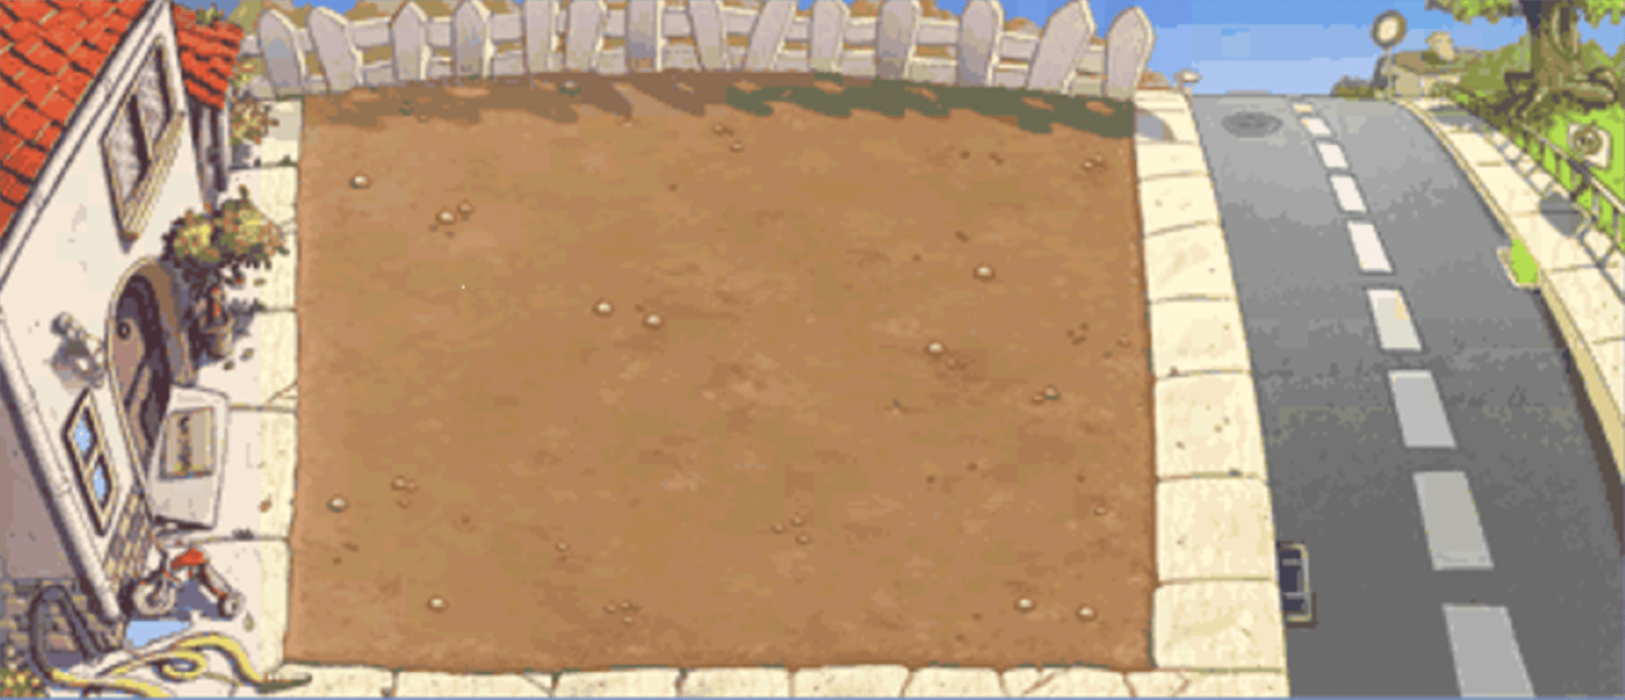
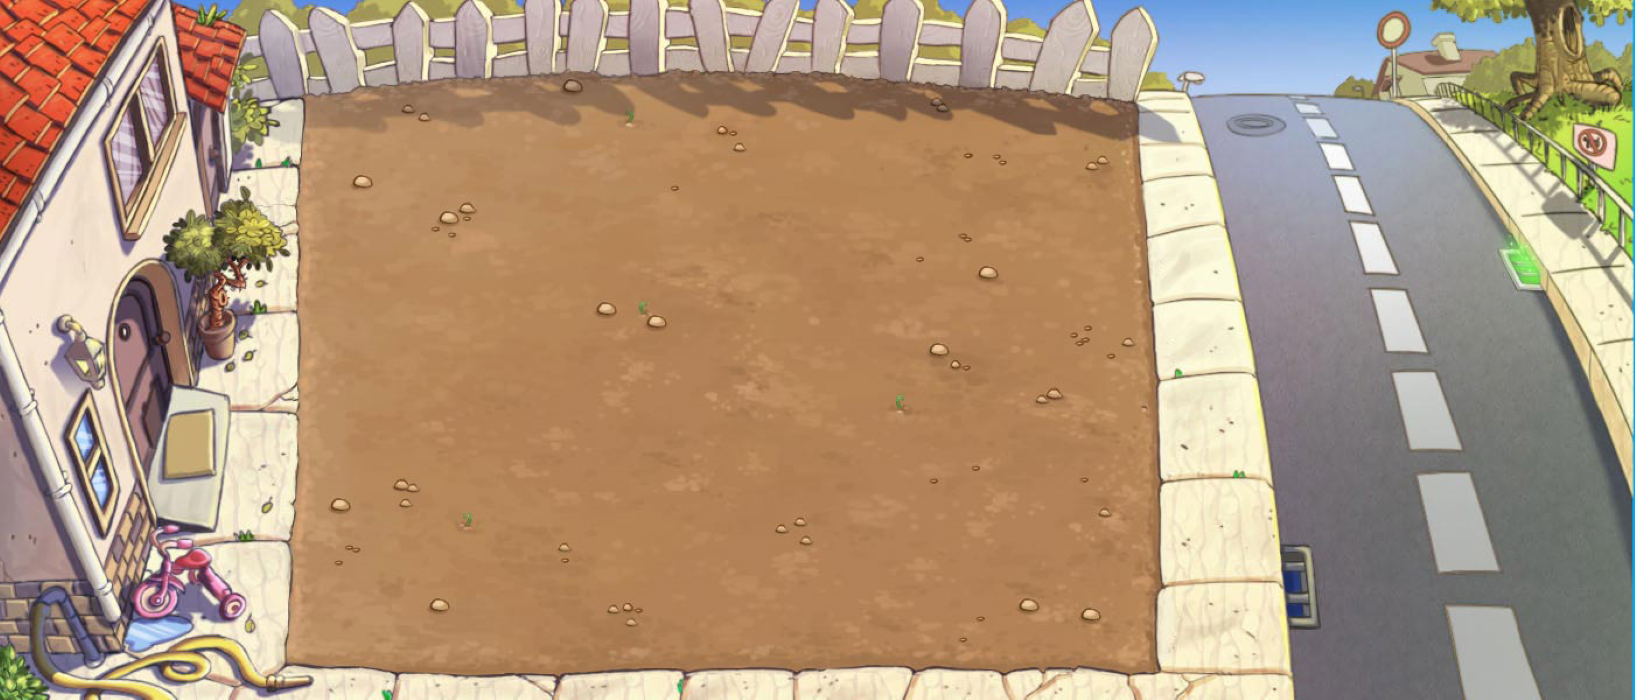
fixed the ugly ass background

diff --git a/PVZ/Game.cpp b/PVZ/Game.cpp
@@ -5,7 +5,7 @@ void Game::createBack(RenderWindow& window)
 	//Drawing the background
 	Image map_image;
 	//Will have to change the path to run it properly ig for this too
-	map_image.loadFromFile("../Images/backwindow2.jpg");
+	map_image.loadFromFile("../Images/Background.png");
 	Texture map;
 	map.loadFromImage(map_image);
 	Sprite s_map;
@@ -28,10 +28,10 @@ void Game::createGrid(RenderWindow& window)
 {
 	// Adding Grid
 	Texture GridT;
-	GridT.loadFromFile("../Images/grid.png");
+	GridT.loadFromFile("../Images/grid2.png");
 	Sprite Grid;
 	Grid.setTexture(GridT);
-	Grid.setPosition(250, 155);
+	Grid.setPosition(280, 50);
 	window.draw(Grid);
 
 }
@@ -110,7 +110,7 @@ void Game::Start_Game()
 			//peaShooter.animate->DrawAnimation(window);
 			// Drawing Sun
 			sun.DrawSun(window, money);
-			window.draw(text);
+			shop.DrawShop(window);
 			window.setSize(sf::Vector2u(1100, 680));
 		}
 		window.display();

diff --git a/PVZ/Shop.cpp b/PVZ/Shop.cpp
@@ -1,0 +1,22 @@
+#include "Shop.h"
+
+
+Shop::Shop() // Initiallizes every sprite
+{
+	sprite = new Sprite[6];
+	texture = new Texture[6];
+	texture[0].loadFromFile("../Images/PeaShooterShop.png");
+	peaShooter_S.setTexture(texture[0]);
+	texture[1].loadFromFile("../Images/SunFlowerShop.png");
+	sunFlower_S.setTexture(texture[1]);
+	sunFlower_S.setTextureRect(sf::IntRect(0, 0, 93, 83));
+	sunFlower_S.setPosition(-10, 50);
+	peaShooter_S.setTextureRect(sf::IntRect(75, 0, 150, 83));
+	peaShooter_S.setPosition(15, 133);
+
+}
+void Shop::DrawShop(sf::RenderWindow& window)
+{
+	window.draw(sunFlower_S);
+	window.draw(peaShooter_S);
+}

diff --git a/PVZ/Sun.cpp b/PVZ/Sun.cpp
@@ -2,6 +2,10 @@
 #include <iostream>
 Sun::Sun()
 {
+	// Setting up Sun graphics to represent amount
+	sunTextureShop.loadFromFile("../Images/Sunshop.png");
+	sunSpriteShop.setTexture(sunTextureShop);
+	sunSpriteShop.setPosition(50, -10);
 	// Setting Graphics For Sun
 	sunTexture.loadFromFile("../Images/Sun.png");
 	sunSprite.setTexture(sunTexture);
@@ -29,6 +33,9 @@ void Sun::DrawSun(sf::RenderWindow& window, int& money)
 			window.draw(sunSprite); // Drawing Sun
 		DropSun();
 	}
+	// Drawing Sun at the shop
+	window.draw(sunSpriteShop);
+
 }
 void Sun::DropSun()
 {

diff --git a/PVZ/Shop.h b/PVZ/Shop.h
@@ -1,0 +1,22 @@
+#pragma once
+#ifndef Shop_H
+#define Shop_H
+
+#include <SFML/Graphics.hpp> // Include necessary header file(s)
+using namespace sf;
+
+class Shop
+{
+protected:
+	Sprite peaShooter_S, sunFlower_S, repeater_S, snowPea_S, cherryBomb_S;
+	Sprite* sprite;
+	Texture* texture;
+	Texture peaShooter_T, sunFlower_T, repeater_T, snowPea_T, cherryBomb_T;
+public:
+	Shop(); // Default constructor 
+	void DrawShop(sf::RenderWindow& window);
+};
+
+
+
+#endif // Shop_H

diff --git a/PVZ/Game.h b/PVZ/Game.h
@@ -11,6 +11,7 @@
 #include "DancingZombie.h"
 #include "DolphinRiderZombie.h"
 #include "Sun.h"
+#include "Shop.h"
 #include <string>
 using namespace sf;
 using namespace std;
@@ -23,6 +24,7 @@ class Game
 	FootballZombie football;
 	FlyingZombie flying;
 	DancingZombie dancing;
+	Shop shop;
 	DolphinRiderZombie dolphin;
 	Plants* ptr = &peaShooter;
 	Sun sun;

diff --git a/PVZ/Sun.h b/PVZ/Sun.h
@@ -11,6 +11,8 @@ class Sun
 {
 	Sprite sunSprite;
 	Texture sunTexture;
+	Sprite sunSpriteShop;
+	Texture sunTextureShop;
 	bool exist;
 	float fallSpeed;
 	Coordinates position;
